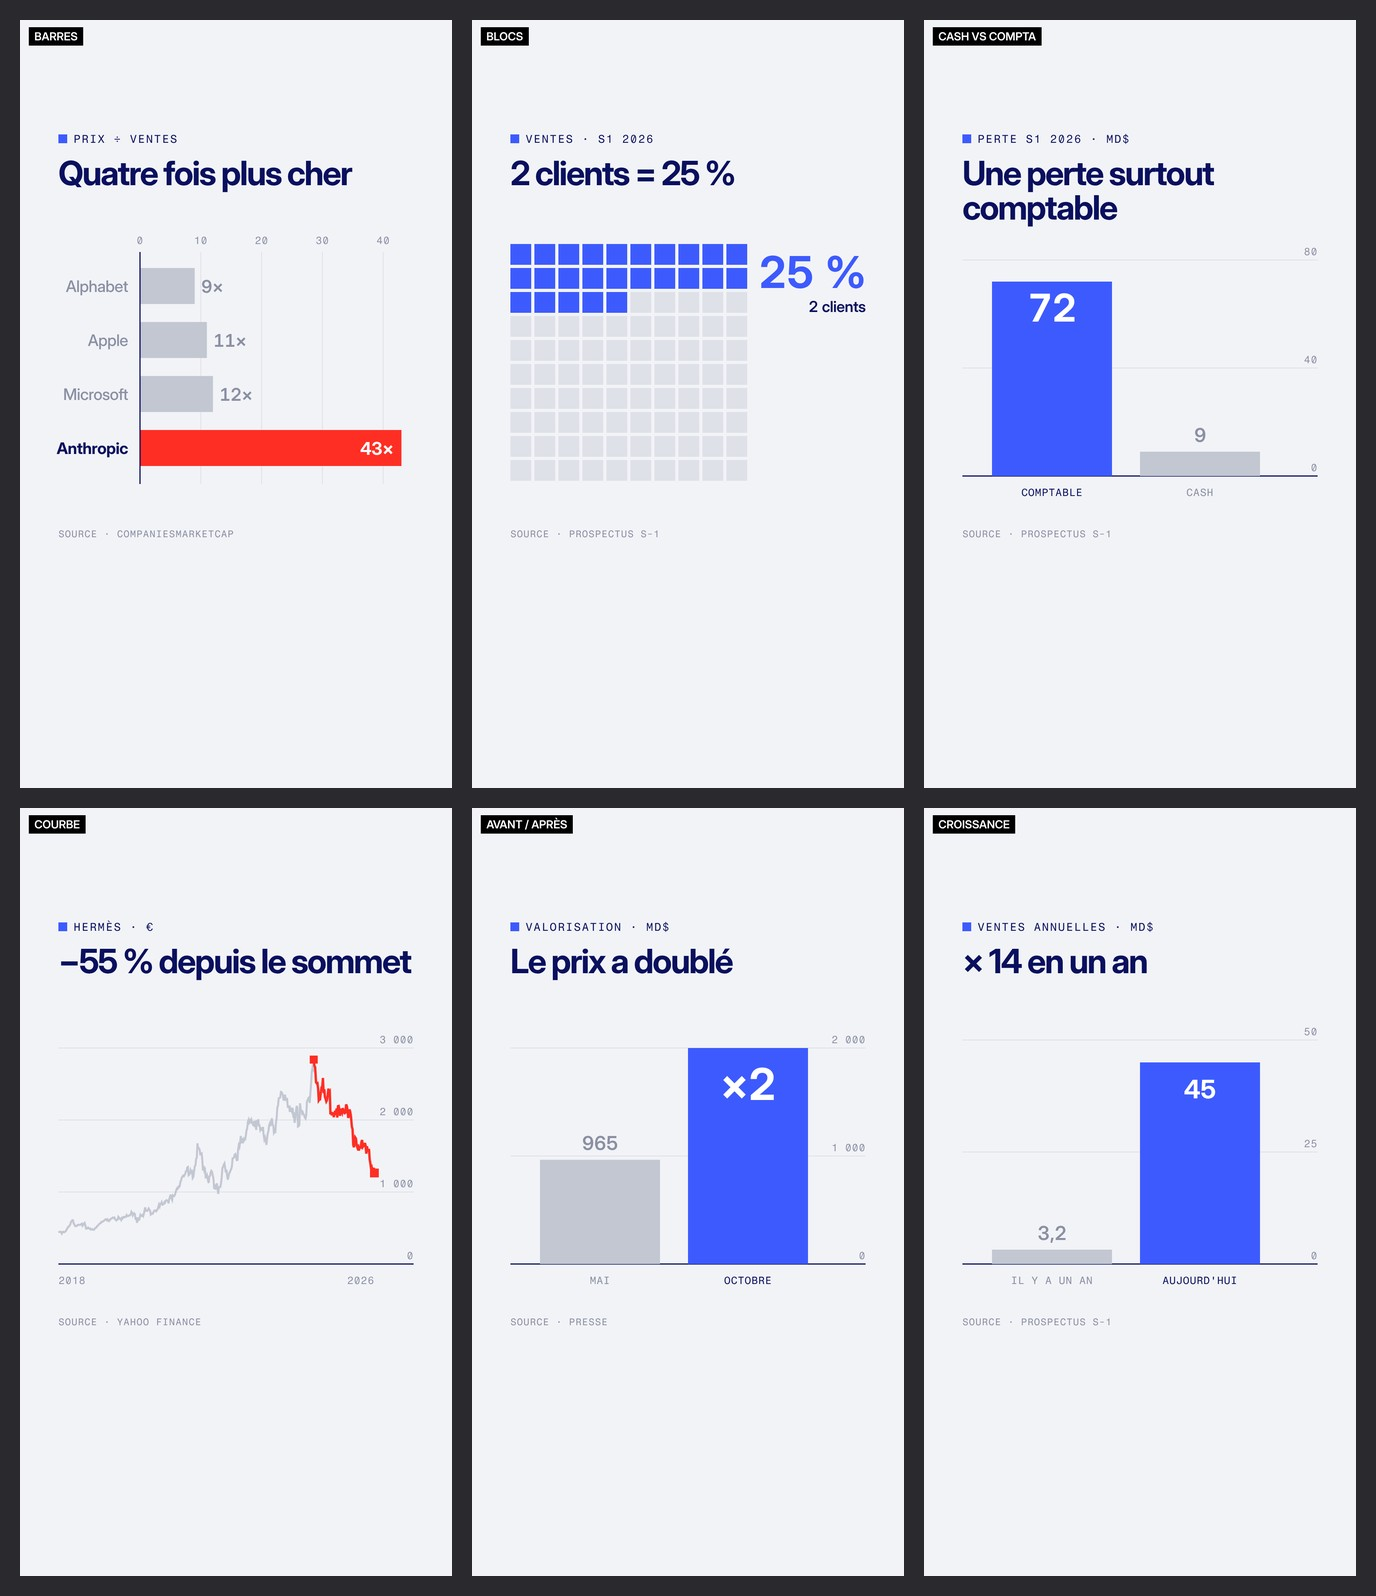
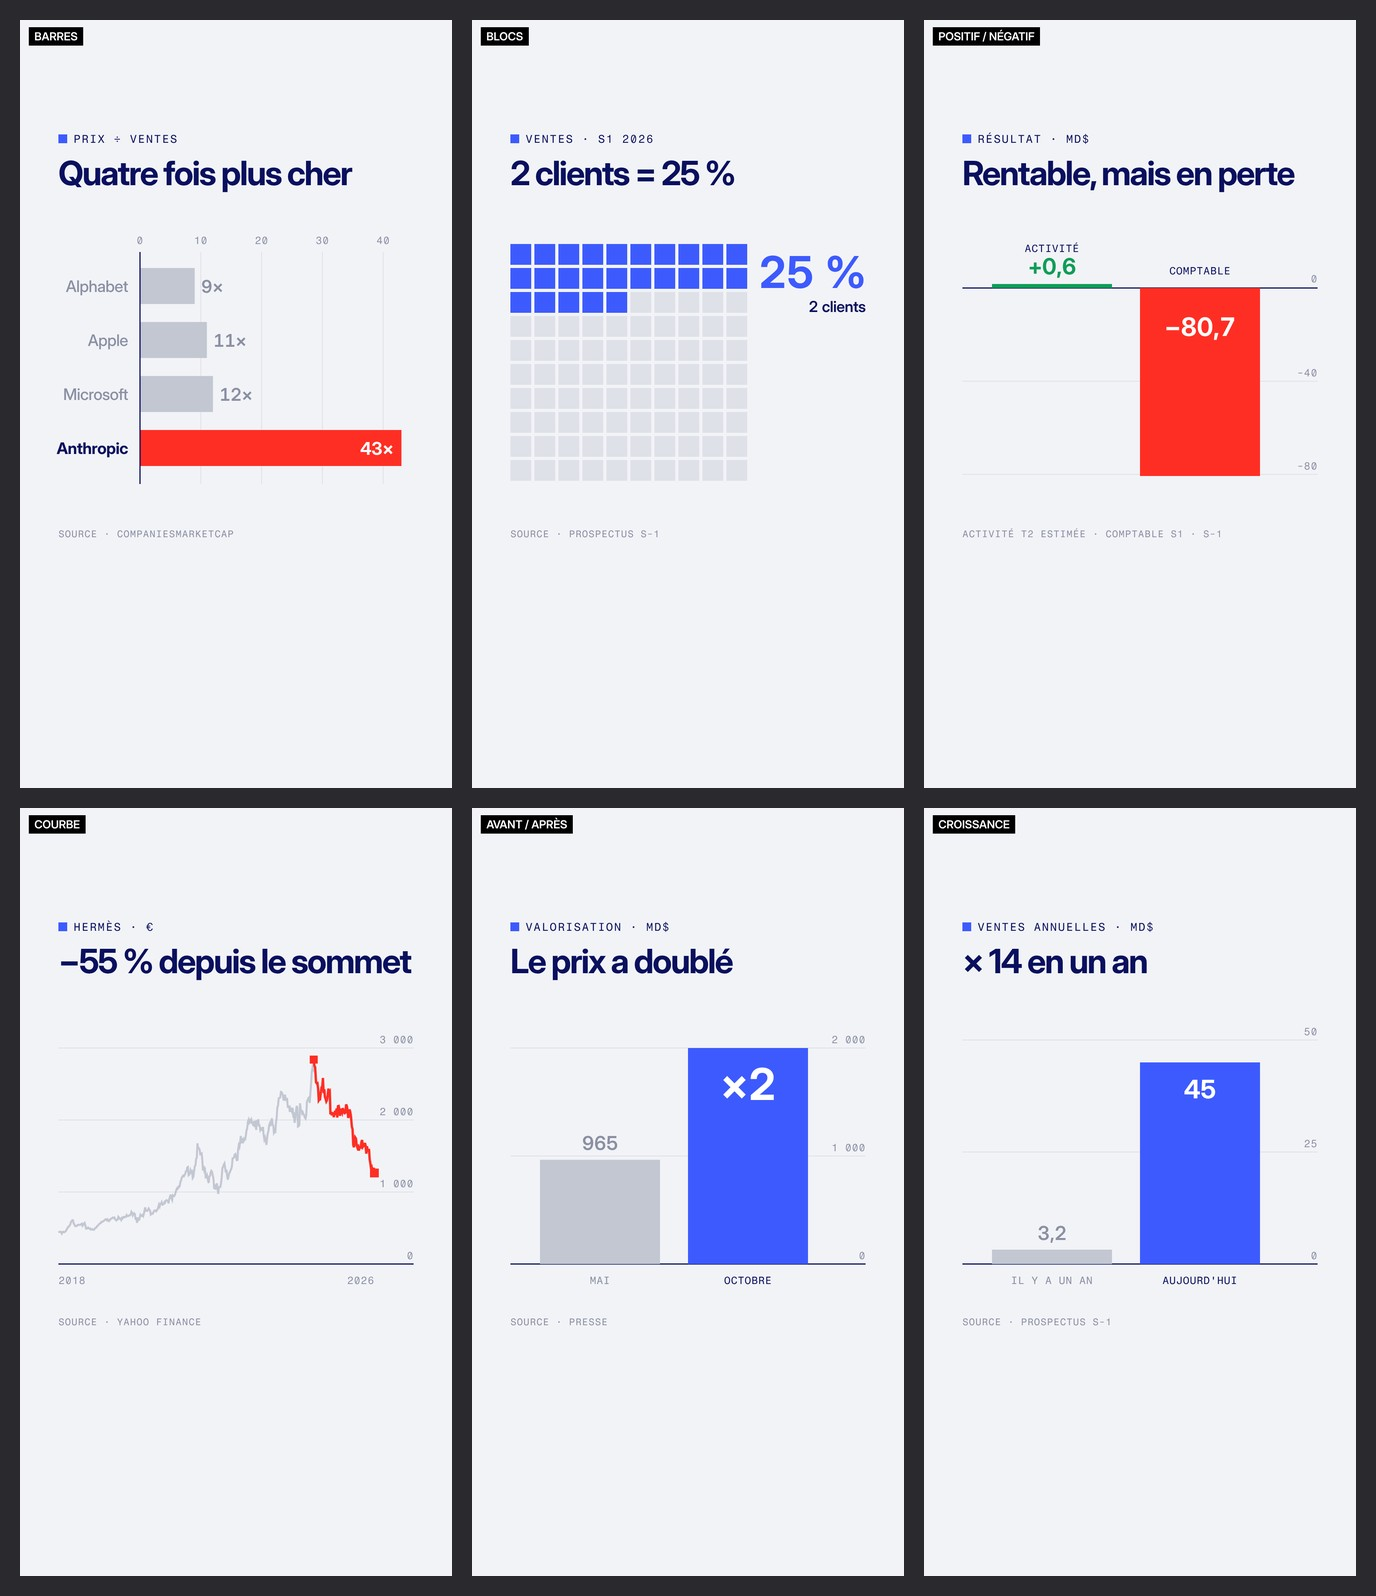
Résultat en barres positive/négative, exemple de style terminal
Claude-Session: https://claude.ai/code/session_0172khLHKtjafTGZdmNpPSJZ

Changed region(s): [[0.6875, 0.0921, 0.9375, 0.3377], [0.6875, 0.0, 0.75, 0.0307]]

diff --git a/financedata-univers/branding-signal/planche-terminal.html b/financedata-univers/branding-signal/planche-terminal.html
@@ -1,0 +1,95 @@
+<!doctype html>
+<html lang="fr">
+<head>
+<meta charset="UTF-8">
+<title>FinanceData · Style terminal</title>
+<script src="rms.js"></script>
+<style>
+  /* Style « terminal » (inspiré des écrans de marché type Bloomberg, sans reprendre leur marque) :
+     fond noir, ambre pour l'info, vert/rouge pour hausse/baisse, mono pour toutes les données,
+     sans-serif grasse pour le titre. Angles droits, bandeau de cotation en haut. */
+  @font-face { font-family: "Display"; src: url("fonts/inter-display-latin-var.woff2"); font-weight: 100 900; }
+  @font-face { font-family: "Mono"; src: url("fonts/fragment-mono-latin-400-normal.woff2"); }
+  * { margin: 0; padding: 0; box-sizing: border-box; }
+  body { background: #2a2a2e; display: flex; gap: 60px; padding: 60px; width: 3540px; font-family: "Display"; font-variation-settings: "opsz" 32; -webkit-font-smoothing: antialiased; }
+  .f { position: relative; width: 1080px; height: 1920px; overflow: hidden; flex: none; background: #000; color: #fff; }
+  .bar { position: absolute; left: 0; right: 0; top: 230px; height: 56px; background: #ff9f1c; color: #000; font-family: "Mono"; font-size: 28px; letter-spacing: .06em; line-height: 56px; padding: 0 96px; display: flex; justify-content: space-between; }
+  .ti { position: absolute; left: 96px; right: 96px; top: 330px; font-weight: 800; font-size: 84px; letter-spacing: -.04em; line-height: 1.02; }
+  .mono { font-family: "Mono"; }
+  .src { position: absolute; left: 96px; top: 1270px; font-family: "Mono"; font-size: 24px; letter-spacing: .06em; color: #7a7a7a; text-transform: uppercase; }
+  svg { position: absolute; overflow: visible; }
+  svg text { font-family: "Mono"; }
+  .lbl { position: absolute; top: 18px; left: 22px; font-size: 28px; font-weight: 600; color: #000; background: #fff; padding: 6px 14px; z-index: 9; }
+</style>
+</head>
+<body>
+
+<!-- cotation -->
+<div class="f" id="b0"><div class="lbl">COTATION</div>
+  <div class="bar"><span>RMS FP · HERMÈS</span><span>EUR</span></div>
+  <div class="ti">Hermès, la chute du luxe</div>
+  <div class="a mono" style="position:absolute; left:96px; top:530px; font-size:150px; letter-spacing:-.02em">1 264,00</div>
+  <div class="a mono" style="position:absolute; left:100px; top:710px; font-size:52px; color:#ff3b30">▼ −55,5 % depuis le sommet</div>
+  <svg id="t0" width="1080" height="420" style="left:0; top:820px"></svg>
+  <div class="src">Clôtures hebdo · Yahoo Finance</div>
+</div>
+
+<!-- comparaison -->
+<div class="f" id="b1"><div class="lbl">COMPARAISON</div>
+  <div class="bar"><span>PRIX ÷ VENTES</span><span>OCT. 2026</span></div>
+  <div class="ti">Anthropic, 4× plus cher</div>
+  <svg id="t1" width="1080" height="760" style="left:0; top:520px"></svg>
+  <div class="src">Companiesmarketcap · FinanceData</div>
+</div>
+
+<!-- résultat -->
+<div class="f" id="b2"><div class="lbl">RÉSULTAT</div>
+  <div class="bar"><span>ANTHROPIC · RÉSULTATS</span><span>MD$</span></div>
+  <div class="ti">Rentable, mais en perte</div>
+  <svg id="t2" width="1080" height="760" style="left:0; top:520px"></svg>
+  <div class="src">Activité T2 estimée · Comptable S1 · S-1</div>
+</div>
+
+<script>
+var NS = "http://www.w3.org/2000/svg", AMB = "#ff9f1c", UP = "#34c759", DN = "#ff3b30", DIM = "#7a7a7a", LINE = "#262626";
+function el(svg, tag, a, text) { var e = document.createElementNS(NS, tag); for (var k in a) e.setAttribute(k, a[k]); if (text != null) e.textContent = text; svg.appendChild(e); return e; }
+function T(svg, x, y, s, size, fill, anchor) { return el(svg, "text", { x: x, y: y, "font-size": size, fill: fill, "text-anchor": anchor || "start" }, s); }
+function fr(v) { return Math.round(v).toLocaleString("fr-FR").replace(/[  ]/g, " "); }
+
+// cotation : courbe ambre, aire sombre, axe à droite
+(function () { var g = document.getElementById("t0"), R = window.RMS, tt = function (d) { return +d.slice(0, 4) + (+d.slice(5, 7) - 1) / 12 + (+d.slice(8, 10)) / 365; };
+  var t0 = tt(R[0][0]), t1 = tt(R[R.length - 1][0]), ls = R[R.length - 1];
+  var X = function (v) { return 96 + (v - t0) / (t1 - t0) * 760; }, Y = function (v) { return 380 - v / 3000 * 360; };
+  [0, 1000, 2000, 3000].forEach(function (v) { el(g, "line", { x1: 96, x2: 900, y1: Y(v), y2: Y(v), stroke: LINE, "stroke-width": 2 }); T(g, 984, Y(v) + 9, fr(v), 26, DIM, "end"); });
+  var d = R.map(function (r, i) { return (i ? "L" : "M") + X(tt(r[0])).toFixed(1) + " " + Y(r[1]).toFixed(1); }).join(" ");
+  el(g, "path", { d: d + " L" + X(t1) + " " + Y(0) + " L" + X(t0) + " " + Y(0) + " Z", fill: AMB, opacity: .12 });
+  el(g, "path", { d: d, fill: "none", stroke: AMB, "stroke-width": 4 });
+  el(g, "rect", { x: 904, y: Y(ls[1]) - 20, width: 100, height: 40, fill: AMB });
+  T(g, 954, Y(ls[1]) + 9, fr(ls[1]), 26, "#000", "middle");
+  T(g, 96, 420, "2018", 24, DIM); T(g, 856, 420, "2026", 24, DIM, "end");
+})();
+
+// comparaison : tableau-barres, Anthropic en ambre
+(function () { var g = document.getElementById("t1"), K = 480 / 43;
+  T(g, 96, 30, "SOCIÉTÉ", 24, DIM); T(g, 984, 30, "P/S", 24, DIM, "end");
+  el(g, "line", { x1: 96, x2: 984, y1: 50, y2: 50, stroke: LINE, "stroke-width": 2 });
+  [["MSFT", "Microsoft", 12], ["AAPL", "Apple", 11], ["GOOGL", "Alphabet", 9], ["ANT", "Anthropic", 43]].forEach(function (r, i) {
+    var y = 90 + i * 150, hi = i === 3;
+    T(g, 96, y + 40, r[0], 36, hi ? AMB : "#fff"); T(g, 96, y + 80, r[1], 26, DIM);
+    el(g, "rect", { x: 300, y: y + 10, width: r[2] * K, height: 60, fill: hi ? AMB : "#3a3a3a" });
+    T(g, 984, y + 52, r[2] + ",0×", 40, hi ? AMB : "#fff", "end");
+    el(g, "line", { x1: 96, x2: 984, y1: y + 116, y2: y + 116, stroke: LINE, "stroke-width": 2 });
+  });
+})();
+
+// résultat : barre verte vers le haut, barre rouge vers le bas
+(function () { var g = document.getElementById("t2"), Z = 160, K = 500 / 80.7;
+  el(g, "line", { x1: 96, x2: 984, y1: Z, y2: Z, stroke: "#fff", "stroke-width": 2 });
+  el(g, "rect", { x: 170, y: Z - 10, width: 300, height: 10, fill: UP });
+  T(g, 320, Z - 40, "▲ +0,6", 52, UP, "middle"); T(g, 320, Z - 100, "ACTIVITÉ", 26, DIM, "middle");
+  el(g, "rect", { x: 540, y: Z, width: 300, height: 80.7 * K, fill: DN });
+  T(g, 690, Z - 40, "▼ −80,7", 52, DN, "middle"); T(g, 690, Z - 100, "COMPTABLE", 26, DIM, "middle");
+})();
+</script>
+</body>
+</html>

diff --git a/financedata-univers/branding-signal/planche-A3.html b/financedata-univers/branding-signal/planche-A3.html
@@ -36,10 +36,10 @@
   <svg id="s1" width="1080" height="700" style="left:0; top:520px"></svg>
   <div class="src">Source · prospectus S-1</div></div>
 
-<div class="f" id="k2"><div class="lbl">CASH VS COMPTA</div><div class="rub"><i></i>Perte S1 2026 · Md$</div>
-  <div class="ti">Une perte surtout comptable</div>
+<div class="f" id="k2"><div class="lbl">POSITIF / NÉGATIF</div><div class="rub"><i></i>Résultat · Md$</div>
+  <div class="ti">Rentable, mais en perte</div>
   <svg id="s2" width="1080" height="700" style="left:0; top:520px"></svg>
-  <div class="src">Source · prospectus S-1</div></div>
+  <div class="src">Activité T2 estimée · Comptable S1 · S-1</div></div>
 
 <div class="f" id="k3"><div class="lbl">COURBE</div><div class="rub"><i></i>Hermès · €</div>
   <div class="ti">−55 % depuis le sommet</div>
@@ -85,14 +85,17 @@ function blocks(g, parts, big, bigCol, sub) {
 })();
 
 blocks($("s1"), [[25, FD]], "25 %", FD, "2 clients");
-// perte : colonnes comptable vs cash, seule la part comptable en couleur
-(function () { var g = $("s2"), Y = function (v) { return 620 - v / 80 * 540; };
-  [0, 40, 80].forEach(function (v) { el(g, "line", { x1: 96, x2: 984, y1: Y(v), y2: Y(v), stroke: v ? GRID : NAVY, "stroke-width": v ? 2 : 3 }); T(g, 984, Y(v) - 12, String(v), 26, AX, 400, "end", 1); });
-  el(g, "rect", { x: 170, y: Y(72), width: 300, height: 620 - Y(72), fill: FD });
-  el(g, "rect", { x: 540, y: Y(9), width: 300, height: 620 - Y(9), fill: GREY });
-  T(g, 320, Y(72) + 100, "72", 96, "#fff", 700, "middle");
-  T(g, 690, Y(9) - 24, "9", 48, AX, 600, "middle");
-  T(g, 320, 670, "COMPTABLE", 26, NAVY, 400, "middle", 1); T(g, 690, 670, "CASH", 26, AX, 400, "middle", 1);
+// résultat : barre positive en vert (activité) vs barre négative en rouge (comptable), zéro en haut
+(function () { var g = $("s2"), Z = 150, K = 470 / 80.7, GREEN = "#0f9d58";
+  el(g, "line", { x1: 96, x2: 984, y1: Z, y2: Z, stroke: NAVY, "stroke-width": 3 });
+  T(g, 984, Z - 14, "0", 26, AX, 400, "end", 1);
+  [-40, -80].forEach(function (v) { el(g, "line", { x1: 96, x2: 984, y1: Z - v * K, y2: Z - v * K, stroke: GRID, "stroke-width": 2 }); T(g, 984, Z - v * K - 12, String(v), 26, AX, 400, "end", 1); });
+  el(g, "rect", { x: 170, y: Z - 10, width: 300, height: 10, fill: GREEN });
+  T(g, 320, Z - 34, "+0,6", 56, GREEN, 700, "middle");
+  T(g, 320, Z - 90, "ACTIVITÉ", 26, NAVY, 400, "middle", 1);
+  el(g, "rect", { x: 540, y: Z, width: 300, height: 80.7 * K, fill: RED });
+  T(g, 690, Z + 120, "−80,7", 64, "#fff", 700, "middle");
+  T(g, 690, Z - 34, "COMPTABLE", 26, NAVY, 400, "middle", 1);
 })();
 
 // courbe : bleu FinanceData jusqu'au sommet, rouge ensuite
